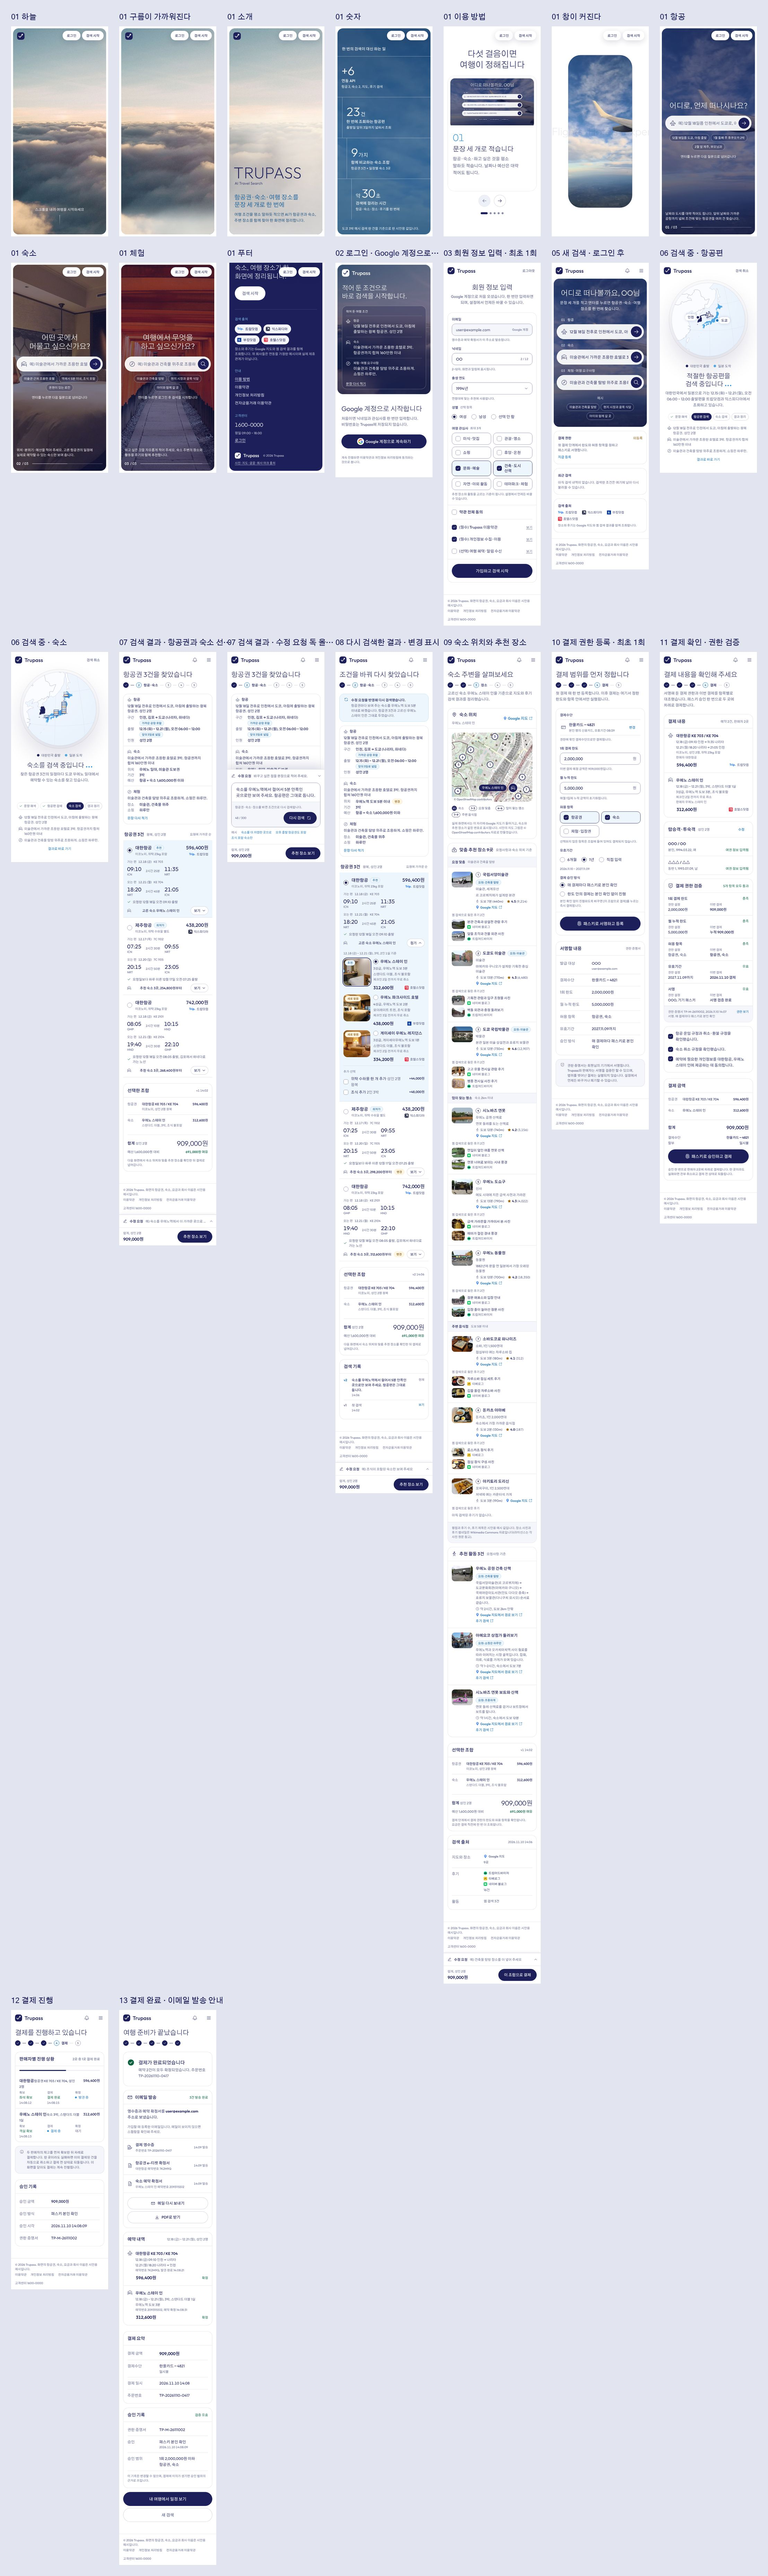
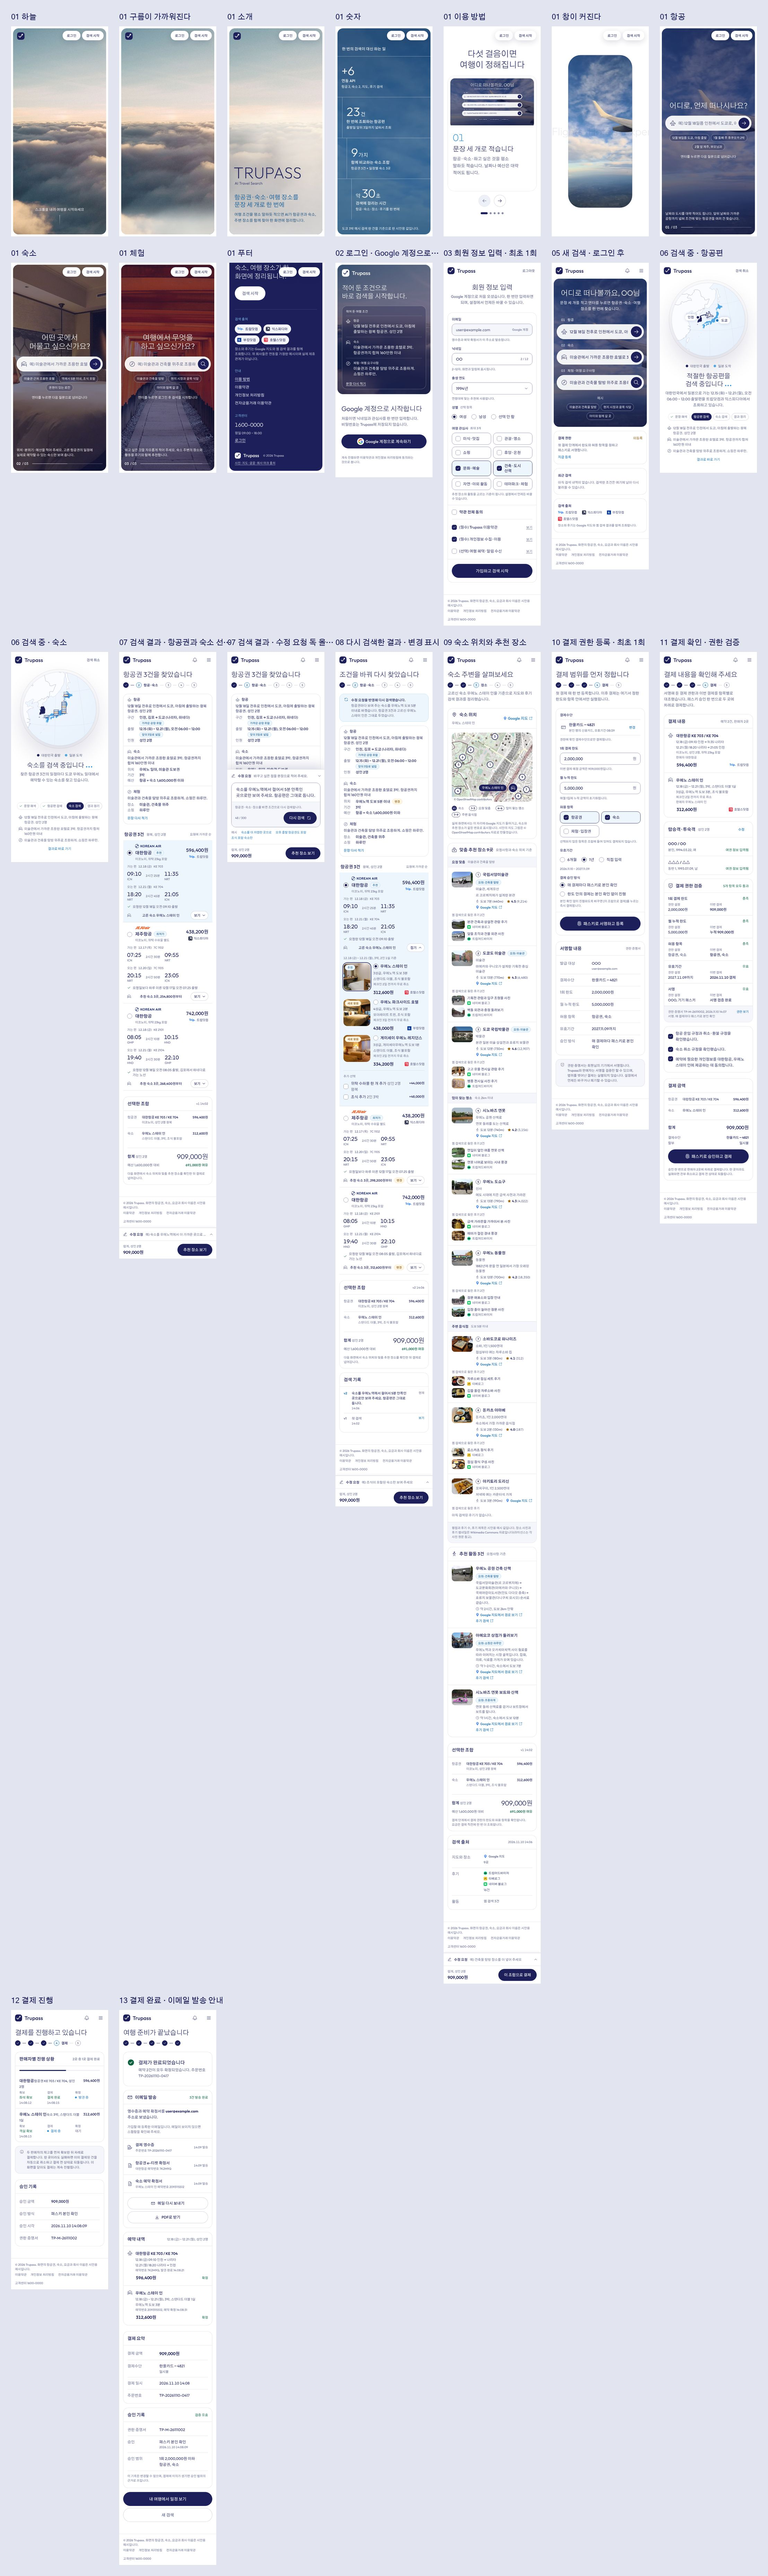
docs: 항공권 줄에 대한항공 · 제주항공 로고 추가
- Wikimedia Commons 에 퍼블릭 도메인으로 올라 있는 공식 로고 벡터를 받아 assets/brands 에 넣음 (상표권은 각 회사)
- tools/fetch-airline-logos.py: 원본을 sha1 로 확인하고 화면에 필요 없는 정의만 걷어 냄
- 이용 방법 그림과 한눈에 보기 이미지, 출처 문서 갱신

Changed region(s): [[0.4359, 0.3434, 0.5605, 0.5931], [0.1557, 0.3122, 0.2802, 0.4995]]

diff --git a/docs/design/src/screens.css b/docs/design/src/screens.css
@@ -359,6 +359,7 @@ body[data-stage="flight"] .sp[data-sp="flight"] b, body[data-stage="stay"] .sp[d
 .fo-r { padding-top: 18px; padding-bottom: 8px; cursor: pointer; }
 .fo-k { position: relative; display: flex; width: 20px; flex: none; border-radius: 10px; cursor: pointer; }
 .fo-a { width: 150px; flex: none; gap: 3px; }
+.al { object-fit: contain; align-self: flex-start; margin-bottom: 3px; }
 .fo-a > .row { flex-wrap: wrap; row-gap: 4px; }
 .fo-a .t-h3 { white-space: nowrap; }
 .fo-l { display: flex; flex: 1 1 0; flex-direction: row; align-items: flex-start; gap: 28px; }

diff --git a/docs/design/tools/fetch-airline-logos.py b/docs/design/tools/fetch-airline-logos.py
@@ -1,0 +1,105 @@
+"""항공사 로고를 Wikimedia Commons 에서 받아 assets/brands/*.svg 로 정리해 넣는다.
+무엇을 쓰는지는 아래 LOGOS 에 적혀 있다(원본 주소 · sha1 · 화면에 놓는 크기). 원본이 바뀌면 sha1 이 달라져 멈춘다.
+정리: 화면에 필요 없는 정의(mask · id · class · 편집기 흔적)를 걷어 내고, 모양(path · polygon)과 색은 그대로 둔다.
+Commons 에는 퍼블릭 도메인(저작권 보호 대상이 아닌 단순한 로고)으로 올라 있고, 상표권은 각 회사에 있다.
+
+사용: python3 tools/fetch-airline-logos.py [원본 캐시 폴더]     (캐시 폴더에 <키>.svg 가 있으면 내려받지 않는다)
+"""
+import hashlib, json, os, re, sys, time, urllib.error, urllib.request
+import xml.etree.ElementTree as ET
+
+UA = "design-mock-asset-fetch/0.1"
+HERE = os.path.dirname(os.path.abspath(__file__))
+OUT = os.path.join(HERE, "..", "assets", "brands")
+CACHE = sys.argv[1] if len(sys.argv) > 1 else os.path.join(HERE, "..", ".logo-cache")
+SVG = "{http://www.w3.org/2000/svg}"
+
+# 키: [화면에 적는 이름, Commons 파일, 원본 주소, 원본 sha1, 만든 곳, 화면 높이(px)]
+# 높이는 글자 크기가 서로 비슷해 보이도록 로고마다 따로 정한다 (대한항공은 심벌 + 작은 글자, 제주항공은 글자뿐이다).
+LOGOS = {
+    "koreanair": ["대한항공", "File:Korean Air 2025.svg", "https://upload.wikimedia.org/wikipedia/commons/6/63/Korean_Air_2025.svg",
+                  "b82d6a12088689dd39789facd4c34d7fd16b3baf", "Korean Air (Lippincott 디자인)", 16],
+    "jejuair": ["제주항공", "File:Jeju Air Logo.svg", "https://upload.wikimedia.org/wikipedia/commons/f/f2/Jeju_Air_Logo.svg",
+                "e63ca25788456b11889ec721979432b6f38fd648", "Jeju Air (벡터화: Jeromi Mikhael)", 12],
+}
+KEEP = {"g": ["transform", "fill", "fill-rule"], "path": ["d", "transform", "fill", "fill-rule"], "polygon": ["points", "transform", "fill", "fill-rule"]}
+
+
+def fetch(url):
+    delay = 8
+    for _ in range(6):
+        try:
+            with urllib.request.urlopen(urllib.request.Request(url, headers={"User-Agent": UA}), timeout=40) as r:
+                return r.read()
+        except urllib.error.HTTPError as e:
+            if e.code in (429, 503):  # 요청 제한: 간격을 늘려 다시 시도
+                time.sleep(delay)
+                delay = min(delay * 2, 90)
+                continue
+            raise
+    raise RuntimeError("gave up: " + url)
+
+
+def clean(raw):
+    text = raw.decode("utf-8")
+    if "<!DOCTYPE" in text or "<!ENTITY" in text or "<script" in text.lower():
+        raise SystemExit("예상하지 못한 내용이 든 SVG 다")
+    root = ET.fromstring(text)
+    # <style> 의 .이름{…} 규칙에서 fill · fill-rule 만 읽어 요소에 직접 적는다
+    rules = {}
+    for st in root.iter(SVG + "style"):
+        for name, body in re.findall(r"\.([\w-]+)\s*\{([^}]*)\}", st.text or ""):
+            rules[name] = dict(p.split(":", 1) for p in body.split(";") if ":" in p)
+
+    def props(el):
+        p = {}
+        for c in (el.get("class") or "").split():
+            p.update(rules.get(c, {}))
+        p.update(dict(x.split(":", 1) for x in (el.get("style") or "").split(";") if ":" in x))
+        return {k.strip(): v.strip() for k, v in p.items() if k.strip() in ("fill", "fill-rule")}
+
+    def walk(el):
+        tag = el.tag.replace(SVG, "")
+        if tag not in KEEP:
+            return ""
+        at = {k: el.get(k) for k in KEEP[tag] if el.get(k)}
+        at.update(props(el))
+        if "fill" in at:
+            at["fill"] = at["fill"].lower()
+        if "transform" in at:
+            at["transform"] = re.sub(r"\s*,\s*", " ", at["transform"])
+        attrs = "".join(f' {k}="{re.sub(chr(10), " ", " ".join(v.split()))}"' for k, v in at.items())
+        if tag == "g":
+            inner = "".join(walk(c) for c in el)
+            return f"<g{attrs}>{inner}</g>" if attrs and inner else inner   # 속성 없는 묶음은 푼다
+        return f"<{tag}{attrs}/>"
+
+    body = "".join(walk(c) for c in root)
+    vb = root.get("viewBox")
+    x, y, w, h = (float(v) for v in vb.split())
+    if not body or x or y or w <= 0 or h <= 0:
+        raise SystemExit("예상과 다른 SVG 다")
+    return f'<svg xmlns="http://www.w3.org/2000/svg" viewBox="0 0 {w:g} {h:g}">{body}</svg>\n', w, h
+
+
+os.makedirs(CACHE, exist_ok=True)
+os.makedirs(OUT, exist_ok=True)
+meta = {}
+for key, (label, title, url, sha1, by, height) in LOGOS.items():
+    raw_path = os.path.join(CACHE, key + ".svg")
+    if not os.path.exists(raw_path):
+        with open(raw_path, "wb") as f:
+            f.write(fetch(url))
+        time.sleep(3)
+    raw = open(raw_path, "rb").read()
+    if hashlib.sha1(raw).hexdigest() != sha1:
+        raise SystemExit(f"{key}: 원본이 적어 둔 것과 다르다 (sha1). Commons 의 파일이 바뀌었는지 확인한다.")
+    svg, w, h = clean(raw)
+    with open(os.path.join(OUT, key + ".svg"), "w", encoding="utf-8") as f:
+        f.write(svg)
+    meta[key] = {"label": label, "w": round(height * w / h), "h": height, "source": "https://commons.wikimedia.org/wiki/" + title.replace(" ", "_"), "by": by}
+    print(f"{key}.svg  {len(raw)} → {len(svg)} bytes  {meta[key]['w']}x{height}")
+# 화면이 읽는 크기 표 (src/lib/ui.mjs 의 airlineLogo 가 쓴다)
+with open(os.path.join(OUT, "airlines.json"), "w", encoding="utf-8") as f:
+    json.dump(meta, f, ensure_ascii=False, indent=1)
+    f.write("\n")

diff --git a/docs/design/assets/CREDITS.md b/docs/design/assets/CREDITS.md
@@ -17,7 +17,7 @@
 - 요금 조회처 · 지도 · 후기 사이트의 마크: [Simple Icons](https://simpleicons.org) 16.35.0, CC0 1.0. `tools/gen-brands.mjs` 가 화면에 쓰는 여덟 개(Trip.com · Expedia · Booking.com · Hotels.com · Google Maps · Tripadvisor · Tabelog · Naver)만 `src/lib/brands.mjs` 에 담았다.
 - 마크와 이름의 상표권은 각 회사에 있다. 화면에 적은 회사는 연동을 가정한 예시이며 실제 제휴 관계가 아니다. 같은 내용을 랜딩과 앱 화면의 푸터에 적었다.
 - 작은 크기(14~16px)에서도 알아볼 수 있도록 그리는 방법만 조정했다. 가로로 긴 Trip.com 워드마크는 글자가 있는 띠만 잘라 넓게 쓰고, 색이 옅은 Tripadvisor · Tabelog · Naver 는 회사 색 바탕 위에 마크를 올렸다. 마크의 모양은 바꾸지 않았다. 실제 서비스에서는 각 회사의 브랜드 가이드에 맞는 공식 자료로 바꾼다.
-- 항공사(대한항공 · 제주항공)는 이름만 적었다. 쓸 수 있는 조건이 확인된 로고 자료가 없어 넣지 않았다.
+- 항공사 로고: `assets/brands/koreanair.svg` 는 [Korean Air 2025.svg](https://commons.wikimedia.org/wiki/File:Korean_Air_2025.svg)(Korean Air, Lippincott 디자인), `assets/brands/jejuair.svg` 는 [Jeju Air Logo.svg](https://commons.wikimedia.org/wiki/File:Jeju_Air_Logo.svg)(Jeju Air, 벡터화 Jeromi Mikhael)이다. 둘 다 Wikimedia Commons 에 퍼블릭 도메인(저작권 보호 대상이 아닌 단순한 로고)으로 올라 있고, 상표로 보호된다. `tools/fetch-airline-logos.py` 가 받아서 화면에 필요 없는 정의(mask · id · class)만 걷어 냈다. 모양과 색은 원본 그대로다.
 - Google 로그인 버튼의 G 마크는 Google 의 상표이며 로그인 버튼 용도로만 썼다.
 
 ## 배경 사진 (Wikimedia Commons)
